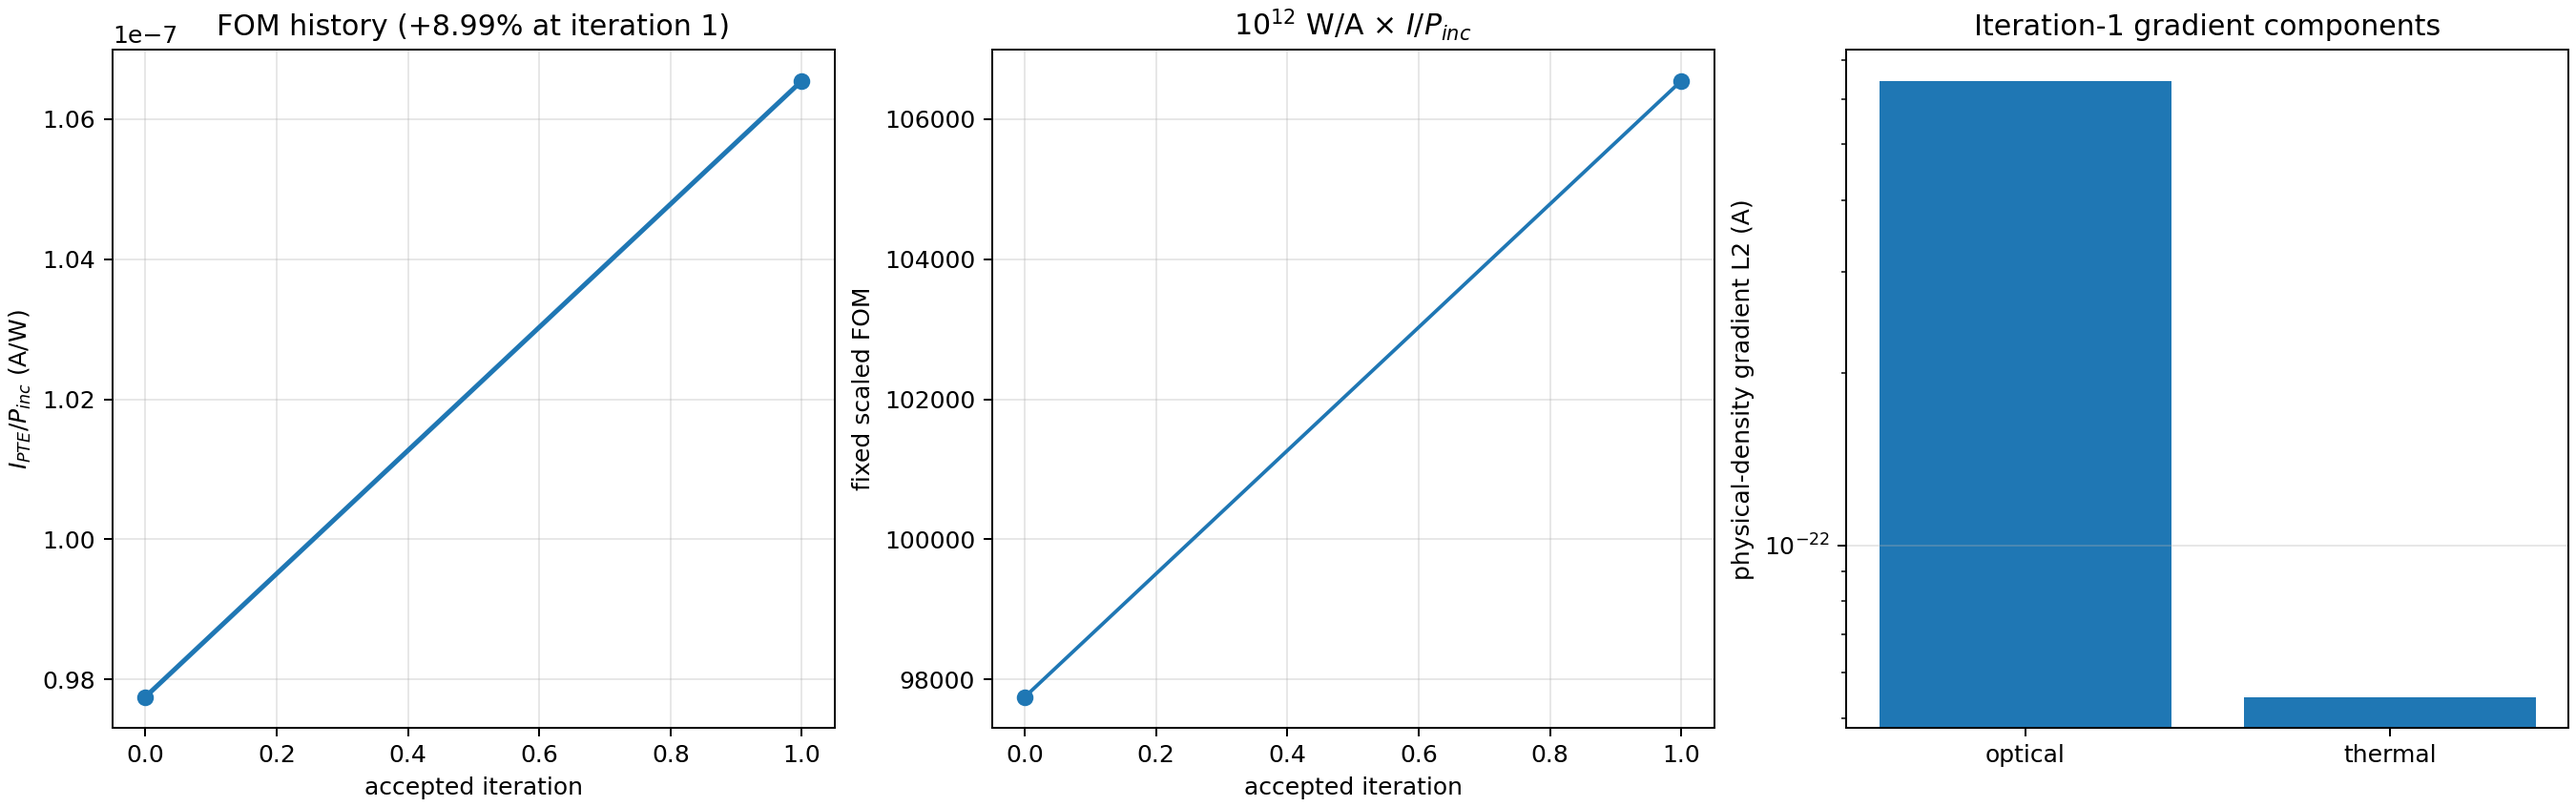
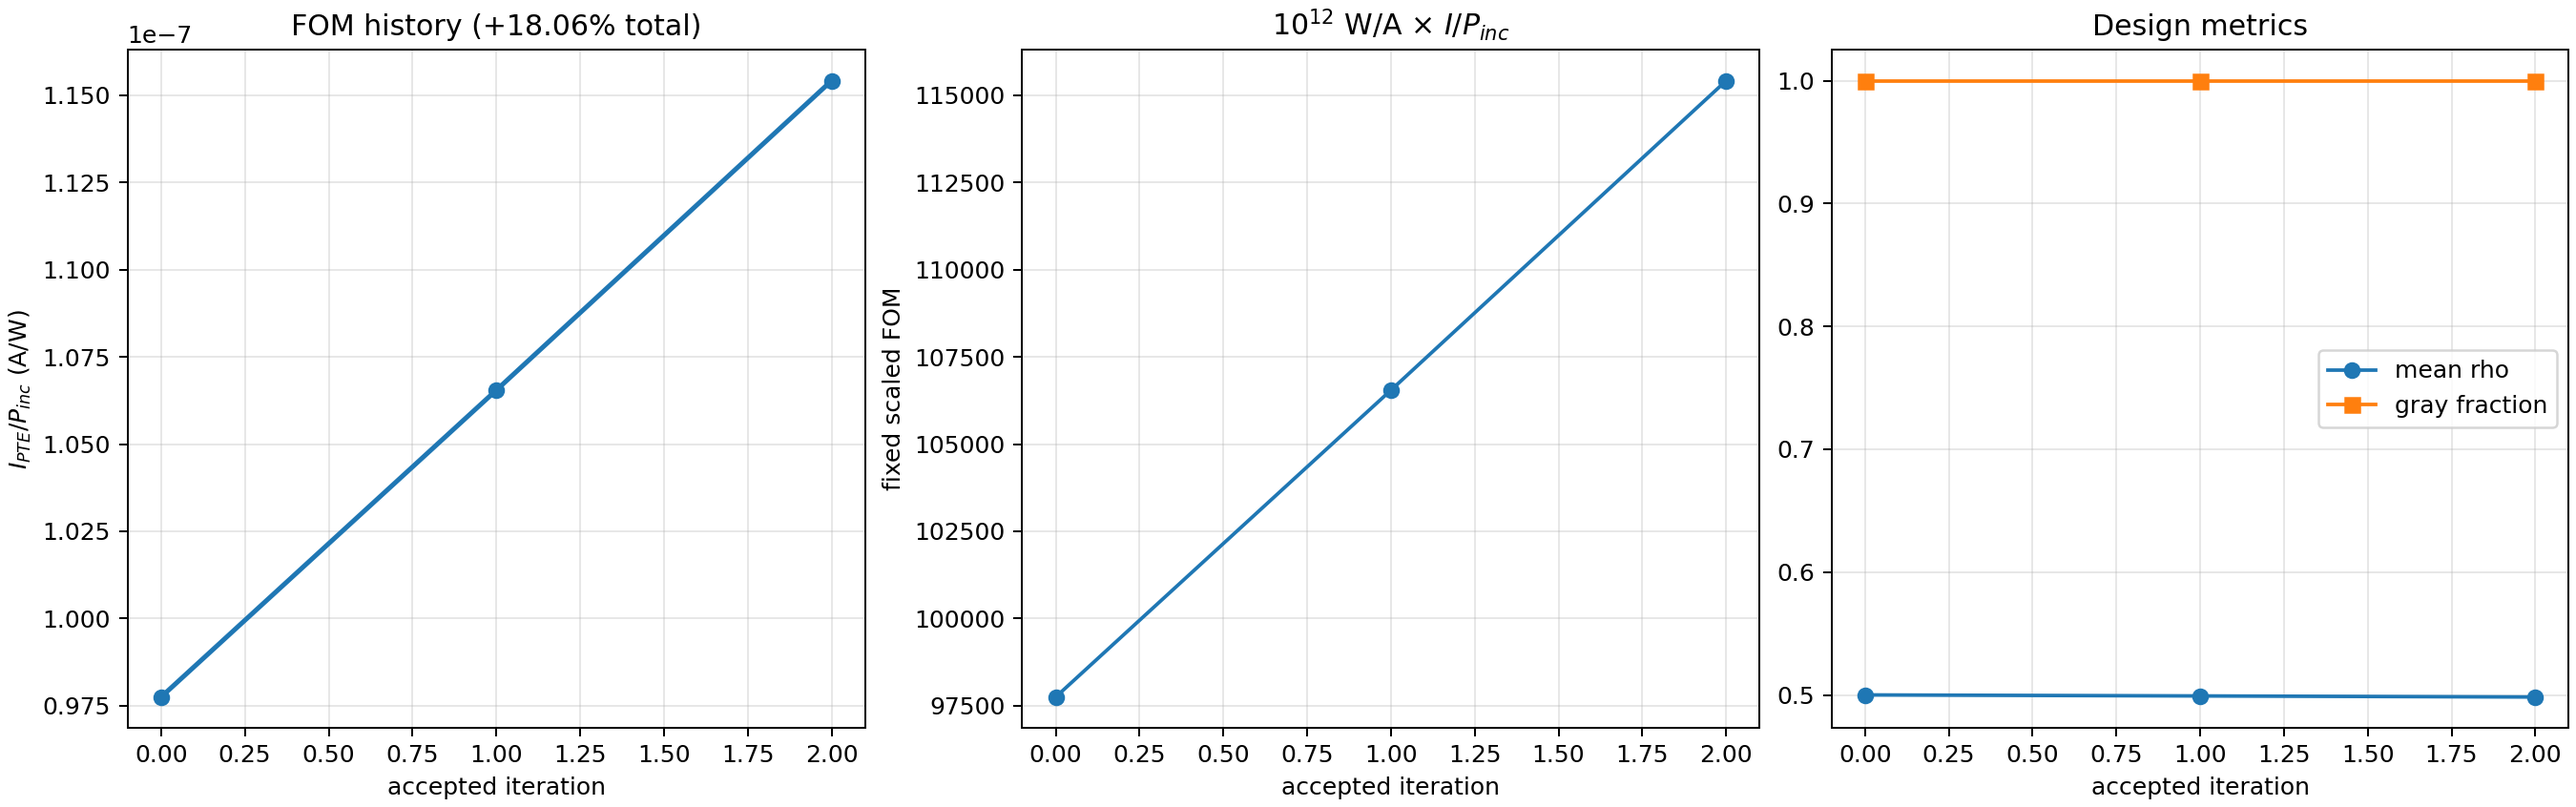
Continue nominal PTE inverse design pilot

diff --git a/photothermal_pte/optimization_runs/run_002_gaussian10_w8p5_current_max/append_nominal_mma_iteration.py b/photothermal_pte/optimization_runs/run_002_gaussian10_w8p5_current_max/append_nominal_mma_iteration.py
@@ -1,0 +1,255 @@
+#!/usr/bin/env python3
+"""Append one improving nominal MMA candidate to the committed run history."""
+
+from __future__ import annotations
+
+import argparse
+import csv
+from datetime import datetime, timezone
+import hashlib
+import json
+from pathlib import Path
+
+import matplotlib
+
+matplotlib.use("Agg")
+import matplotlib.pyplot as plt  # noqa: E402
+import numpy as np  # noqa: E402
+
+
+STATUS = "RUNNING_NOMINAL_MMA_PILOT"
+
+
+def sha256(path: Path) -> str:
+    digest = hashlib.sha256()
+    with path.open("rb") as handle:
+        for block in iter(lambda: handle.read(1024 * 1024), b""):
+            digest.update(block)
+    return digest.hexdigest()
+
+
+def artifact(path: Path) -> dict[str, object]:
+    path = path.expanduser().resolve()
+    return {"path": str(path), "size_bytes": path.stat().st_size, "sha256": sha256(path)}
+
+
+def main() -> int:
+    parser = argparse.ArgumentParser()
+    parser.add_argument("--iteration", type=int, required=True)
+    parser.add_argument("--proposal-result", type=Path, required=True)
+    parser.add_argument("--proposal-raw", type=Path, required=True)
+    parser.add_argument("--candidate-result", type=Path, required=True)
+    parser.add_argument("--candidate-raw", type=Path, required=True)
+    parser.add_argument("--run-directory", type=Path, required=True)
+    args = parser.parse_args()
+    run = args.run_directory.expanduser().resolve()
+    results = run / "results"
+    plots = run / "plots"
+    checkpoints = run / "checkpoints"
+    summary_path = results / "nominal_mma_pilot_summary.json"
+    history_csv = results / "nominal_mma_iteration_history.csv"
+    report_path = results / "NOMINAL_MMA_PILOT_REPORT.md"
+    manifest_path = run / "manifests" / "RAW_ARTIFACT_MANIFEST.json"
+    status_path = run / "STATUS.json"
+    previous = json.loads(summary_path.read_text())
+    if args.iteration != int(previous["accepted_iterations"]) + 1:
+        raise RuntimeError("iteration is not the next append-only index")
+    proposal_result_path = args.proposal_result.expanduser().resolve()
+    proposal_raw_path = args.proposal_raw.expanduser().resolve()
+    candidate_result_path = args.candidate_result.expanduser().resolve()
+    candidate_raw_path = args.candidate_raw.expanduser().resolve()
+    proposal = json.loads(proposal_result_path.read_text())
+    candidate = json.loads(candidate_result_path.read_text())
+    if not proposal.get("passed") or not candidate.get("passed"):
+        raise RuntimeError("proposal or candidate did not pass")
+    if int(proposal["optimizer_iteration_proposed"]) != args.iteration:
+        raise RuntimeError("proposal iteration does not match requested append index")
+    if sha256(proposal_raw_path) != proposal["raw_artifact"]["sha256"]:
+        raise RuntimeError("proposal raw SHA mismatch")
+    if sha256(candidate_raw_path) != candidate["raw_artifact"]["sha256"]:
+        raise RuntimeError("candidate raw SHA mismatch")
+    proposal_data = np.load(proposal_raw_path)
+    data = np.load(candidate_raw_path)
+    if not np.array_equal(np.asarray(proposal_data["latent"], float), np.asarray(data["latent"], float)):
+        raise RuntimeError("evaluated latent design differs from the MMA proposal")
+    if not np.array_equal(np.asarray(proposal_data["rho"], float), np.asarray(data["rho"], float)):
+        raise RuntimeError("evaluated physical density differs from the MMA proposal")
+    incident = float(candidate["incident_power_W"])
+    scale = float(proposal["fixed_nondimensionalization"]["scale_W_per_A"])
+    rows = list(previous["history"])
+    prior_objective = float(rows[-1]["objective_A"])
+    baseline_objective = float(rows[0]["objective_A"])
+    objective = float(candidate["objective_A"])
+    improvement_prior = (objective - prior_objective) / abs(prior_objective)
+    improvement_total = (objective - baseline_objective) / abs(baseline_objective)
+    if improvement_prior <= 0.0:
+        raise RuntimeError("candidate did not improve the previous accepted objective")
+    latent = np.asarray(data["latent"], float)
+    rho = np.asarray(data["rho"], float)
+    row = {
+        "iteration": args.iteration,
+        "accepted": True,
+        "beta": candidate["beta"],
+        "objective_A": objective,
+        "objective_A_per_incident_W": objective / incident,
+        "scaled_FOM": scale * objective / incident,
+        "relative_improvement_from_iteration0": improvement_total,
+        "P_Q_W": candidate["base_forward"]["P_Q_W"],
+        "P_six_W": candidate["base_forward"]["P_six_W"],
+        "optical_closure": candidate["gates"]["optical_closure"],
+        "thermal_residual": candidate["gates"]["thermal_residual"],
+        "thermal_energy_balance": candidate["gates"]["thermal_energy_balance"],
+        "latent_min": float(np.min(latent)),
+        "latent_max": float(np.max(latent)),
+        "physical_density_min": float(np.min(rho)),
+        "physical_density_max": float(np.max(rho)),
+        "physical_density_mean": float(np.mean(rho)),
+        "gray_fraction_0p05_0p95": float(np.mean((rho > 0.05) & (rho < 0.95))),
+        "gradient_latent_L2_A": candidate["gradient_norms_A"]["latent"],
+        "gradient_physical_L2_A": candidate["gradient_norms_A"]["physical"],
+        "gradient_optical_physical_L2_A": candidate["gradient_norms_A"]["optical_physical"],
+        "gradient_thermal_physical_L2_A": candidate["gradient_norms_A"]["thermal_physical"],
+        "max_abs_latent_step": proposal["latent_max_abs_change"],
+    }
+    rows.append(row)
+    with history_csv.open("w", newline="") as handle:
+        writer = csv.DictWriter(handle, fieldnames=list(rows[0]), lineterminator="\n")
+        writer.writeheader()
+        writer.writerows(rows)
+    checkpoint_path = checkpoints / f"iteration_{args.iteration:03d}_accepted_state.npz"
+    np.savez_compressed(
+        checkpoint_path,
+        latent=np.asarray(latent, np.float32),
+        beta=np.asarray(candidate["beta"]),
+        objective_A=np.asarray(objective),
+        incident_power_W=np.asarray(incident),
+        fixed_objective_scale_W_per_A=np.asarray(scale),
+        iteration=np.asarray(args.iteration),
+    )
+
+    fig, axes = plt.subplots(1, 3, figsize=(15, 4.7), constrained_layout=True)
+    x = [int(value["iteration"]) for value in rows]
+    axes[0].plot(x, [float(value["objective_A_per_incident_W"]) for value in rows], "o-", linewidth=2)
+    axes[0].set_xlabel("accepted iteration")
+    axes[0].set_ylabel(r"$I_{PTE}/P_{inc}$ (A/W)")
+    axes[0].set_title(f"FOM history (+{100.0*improvement_total:.2f}% total)")
+    axes[0].grid(alpha=0.3)
+    axes[1].plot(x, [float(value["scaled_FOM"]) for value in rows], "o-")
+    axes[1].set_xlabel("accepted iteration")
+    axes[1].set_ylabel("fixed scaled FOM")
+    axes[1].set_title(r"$10^{12}$ W/A × $I/P_{inc}$")
+    axes[1].grid(alpha=0.3)
+    axes[2].plot(x, [float(value["physical_density_mean"]) for value in rows], "o-", label="mean rho")
+    axes[2].plot(x, [float(value["gray_fraction_0p05_0p95"]) for value in rows], "s-", label="gray fraction")
+    axes[2].set_xlabel("accepted iteration")
+    axes[2].set_title("Design metrics")
+    axes[2].legend()
+    axes[2].grid(alpha=0.3)
+    fig.savefig(plots / "iteration_vs_fom.png", dpi=180)
+    plt.close(fig)
+
+    fig, axes = plt.subplots(2, 4, figsize=(17, 8.5), constrained_layout=True)
+    fields = (
+        (data["latent"], f"iteration {args.iteration} latent", "viridis"),
+        (data["filtered"], f"iteration {args.iteration} filtered", "viridis"),
+        (data["rho"], f"iteration {args.iteration} physical density", "viridis"),
+        (np.asarray(data["rho"], float) - np.asarray(proposal_data["rho_previous"], float), "physical-density step", "coolwarm"),
+        (data["gradient_optical_A"], "optical gradient", "coolwarm"),
+        (data["gradient_thermal_A"], "thermal gradient", "coolwarm"),
+        (data["gradient_physical_A"], "physical gradient", "coolwarm"),
+        (data["gradient_latent_A"], "latent gradient", "coolwarm"),
+    )
+    for ax, (value, title, cmap) in zip(axes.ravel(), fields):
+        image = ax.imshow(np.asarray(value, float).T, origin="lower", cmap=cmap, aspect="equal")
+        ax.set_title(title)
+        ax.set_xlabel("node x")
+        ax.set_ylabel("node y")
+        fig.colorbar(image, ax=ax, fraction=0.046)
+    design_plot = plots / f"iteration_{args.iteration:03d}_design_and_gradients.png"
+    fig.savefig(design_plot, dpi=180)
+    plt.close(fig)
+
+    fig, axes = plt.subplots(1, 3, figsize=(15, 4.8), constrained_layout=True)
+    axes[0].bar(["move / 0.02", "mean-rho delta / 0.01", "gray-fraction delta"], [
+        float(proposal["latent_max_abs_change"]) / 0.02,
+        abs(float(row["physical_density_mean"]) - float(rows[-2]["physical_density_mean"])) / 0.01,
+        abs(float(row["gray_fraction_0p05_0p95"]) - float(rows[-2]["gray_fraction_0p05_0p95"])),
+    ])
+    axes[0].axhline(1.0, color="black", linestyle="--")
+    axes[0].set_title("Design diagnostics")
+    axes[1].bar(["closure", "residual", "energy"], [candidate["gates"]["optical_closure"] / 0.005, candidate["gates"]["thermal_residual"] / 1.0e-8, candidate["gates"]["thermal_energy_balance"] / 0.01])
+    axes[1].axhline(1.0, color="black", linestyle="--")
+    axes[1].set_yscale("log")
+    axes[1].set_ylabel("value / gate")
+    axes[1].set_title("Physics gate margins")
+    axes[2].bar(["P_Q", "P_six"], [candidate["base_forward"]["P_Q_W"], candidate["base_forward"]["P_six_W"]])
+    axes[2].set_ylabel("power (W)")
+    axes[2].set_title("Optical closure")
+    constraint_plot = plots / f"iteration_{args.iteration:03d}_constraints_and_physics.png"
+    fig.savefig(constraint_plot, dpi=180)
+    plt.close(fig)
+
+    generated = datetime.now(timezone.utc).isoformat()
+    raw_entry = {
+        "proposal_result": artifact(proposal_result_path),
+        "proposal_NPZ": artifact(proposal_raw_path),
+        "evaluation_result": artifact(candidate_result_path),
+        "evaluation_NPZ": artifact(candidate_raw_path),
+    }
+    raw_artifacts = dict(previous["raw_artifacts"])
+    raw_artifacts[f"iteration_{args.iteration:03d}"] = raw_entry
+    previous.update({
+        "status": STATUS,
+        "generated_at_utc": generated,
+        "optimization_started": True,
+        "accepted_iterations": args.iteration,
+        "current_beta": candidate["beta"],
+        "current_objective_A": objective,
+        "last_iteration_relative_improvement": improvement_prior,
+        "relative_improvement": improvement_total,
+        "history": rows,
+        "checkpoint": artifact(checkpoint_path),
+        "raw_artifacts": raw_artifacts,
+    })
+    summary_path.write_text(json.dumps(previous, indent=2) + "\n")
+    table = "\n".join(
+        f"| {int(value['iteration'])} | {float(value['objective_A']):.12e} | {float(value['objective_A_per_incident_W']):.12e} | {100.0*float(value['relative_improvement_from_iteration0']):.6f}% |"
+        for value in rows
+    )
+    report_path.write_text(
+        "# Run 002 nominal MMA pilot\n\n"
+        f"Status: `{STATUS}`\n\n"
+        "| accepted iteration | objective (A) | objective / incident power (A/W) | improvement from iteration 0 |\n"
+        "|---:|---:|---:|---:|\n"
+        f"{table}\n\n"
+        f"Iteration {args.iteration} improves the previous accepted objective by `{100.0*improvement_prior:.6f}%` "
+        f"and the baseline by `{100.0*improvement_total:.6f}%`. The fixed objective scale remains "
+        f"`{scale:.3e} W/A`; it is not changed between iterations.\n\n"
+        "This remains a continuous beta=2 grown/grown +I pilot using the uniform-45° weighting surrogate. "
+        "Each accepted design is generated by a restartable one-step NLopt LD_MMA proposal; internal MMA "
+        "asymptote history is not persisted across server-safe checkpoints. Exact binary DRC, opposite sign, "
+        "named interface robustness, and full electrodes remain pending.\n"
+    )
+    manifest = json.loads(manifest_path.read_text())
+    manifest["nominal_mma_pilot"].update({
+        "status": STATUS,
+        f"iteration_{args.iteration:03d}": raw_entry,
+        "checkpoint": previous["checkpoint"],
+    })
+    manifest["current_promoted_status"] = STATUS
+    manifest["current_promoted_at_utc"] = generated
+    manifest_path.write_text(json.dumps(manifest, indent=2) + "\n")
+    status = json.loads(status_path.read_text())
+    status.update({
+        "status": STATUS,
+        "last_updated_utc": generated,
+        "optimization_started": True,
+        "message": f"Nominal beta=2 MMA iteration {args.iteration} accepted; last improvement={100.0*improvement_prior:.3f}%, total={100.0*improvement_total:.3f}%. Exact binary DRC and robust interface scenarios remain.",
+    })
+    status_path.write_text(json.dumps(status, indent=2) + "\n")
+    print(json.dumps({"status": STATUS, "iteration": args.iteration, "objective_A": objective, "improvement_previous": improvement_prior, "improvement_total": improvement_total, "checkpoint": previous["checkpoint"]}, indent=2))
+    return 0
+
+
+if __name__ == "__main__":
+    raise SystemExit(main())

diff --git a/photothermal_pte/optimization_runs/run_002_gaussian10_w8p5_current_max/propose_nominal_mma_step.py b/photothermal_pte/optimization_runs/run_002_gaussian10_w8p5_current_max/propose_nominal_mma_step.py
@@ -34,12 +34,15 @@ def main() -> int:
     parser.add_argument("--preparation-raw", type=Path, required=True)
     parser.add_argument("--preparation-raw-sha256", required=True)
     parser.add_argument("--output-dir", type=Path, required=True)
+    parser.add_argument("--iteration", type=int, default=1)
     parser.add_argument("--initial-step", type=float, default=0.02)
     parser.add_argument("--fixed-objective-scale-W-per-A", type=float, default=1.0e8)
     args = parser.parse_args()
     output = args.output_dir.expanduser().resolve()
     if output.exists() and any(output.iterdir()):
         raise RuntimeError(f"refusing non-empty output directory: {output}")
+    if args.iteration < 1:
+        raise ValueError("iteration must be positive")
     output.mkdir(parents=True, exist_ok=True)
     prep_path = args.preparation_result.expanduser().resolve()
     prep = json.loads(prep_path.read_text())
@@ -84,7 +87,8 @@ def main() -> int:
     rho1 = mapping.physical(candidate, beta)
     if np.min(candidate) < 0.0 or np.max(candidate) > 1.0:
         raise RuntimeError("MMA candidate violates bounds")
-    proposal_path = output / "nominal_mma_iteration_001_proposal.npz"
+    tag = f"{args.iteration:03d}"
+    proposal_path = output / f"nominal_mma_iteration_{tag}_proposal.npz"
     np.savez_compressed(
         proposal_path,
         latent= candidate,
@@ -95,7 +99,7 @@ def main() -> int:
         certified_gradient_latent_A=gradient_A,
     )
     result = {
-        "status": "PROPOSED_NOMINAL_MMA_ITERATION_001",
+        "status": f"PROPOSED_NOMINAL_MMA_ITERATION_{tag}",
         "passed": True,
         "generated_at_utc": datetime.now(timezone.utc).isoformat(),
         "algorithm": "NLopt_LD_MMA",
@@ -131,13 +135,13 @@ def main() -> int:
         "actual_candidate_objective": "not evaluated by this proposal step",
         "inputs": {"preparation_result": artifact(prep_path), "preparation_NPZ": artifact(raw_path)},
         "raw_artifact": artifact(proposal_path),
-        "optimizer_iteration_proposed": 1,
-        "optimizer_iteration_evaluated": 0,
+        "optimizer_iteration_proposed": args.iteration,
+        "optimizer_iteration_evaluated": args.iteration - 1,
         "Maxwell_solves": 0,
         "thermal_solves": 0,
         "gradient_rescaling": False,
     }
-    result_path = output / "nominal_mma_iteration_001_proposal_result.json"
+    result_path = output / f"nominal_mma_iteration_{tag}_proposal_result.json"
     result_path.write_text(json.dumps(result, indent=2) + "\n")
     print(json.dumps(result, indent=2))
     return 0

diff --git a/photothermal_pte/optimization_runs/run_002_gaussian10_w8p5_current_max/run_optimization.py b/photothermal_pte/optimization_runs/run_002_gaussian10_w8p5_current_max/run_optimization.py
@@ -52,8 +52,8 @@ def main() -> int:
         "also passed. The selected-grid Maxwell optical adjoint and five-direction "
         "combined physical-density AD-FD pass after named-source CW normalization "
         "was fixed. Full latent/filter/projection AD-FD also passes. Continuous "
-        "optimization is numerically authorized and nominal beta=2 MMA iteration 1 "
-        "has been accepted with an append-only checkpoint; "
+        "optimization is numerically authorized and nominal beta=2 restartable MMA "
+        "iterations 1 and 2 have been accepted with SHA-pinned append-only checkpoints; "
         "exact-binary DRC fixtures remain required before final fabrication promotion"
     )
     return 0

diff --git a/photothermal_pte/optimization_runs/run_002_gaussian10_w8p5_current_max/results/NOMINAL_MMA_PILOT_REPORT.md b/photothermal_pte/optimization_runs/run_002_gaussian10_w8p5_current_max/results/NOMINAL_MMA_PILOT_REPORT.md
@@ -2,8 +2,12 @@
 
 Status: `RUNNING_NOMINAL_MMA_PILOT`
 
-The first actual GPU-Maxwell/CUDA-thermal MMA candidate is accepted. The signed PTE objective increased from `1.351217541492e-20 A` to `1.472735412129e-20 A`, a `8.993213%` improvement.
+| accepted iteration | objective (A) | objective / incident power (A/W) | improvement from iteration 0 |
+|---:|---:|---:|---:|
+| 0 | 1.351217541492e-20 | 9.775174754357e-08 | 0.000000% |
+| 1 | 1.472735412129e-20 | 1.065427703418e-07 | 8.993213% |
+| 2 | 1.595279824199e-20 | 1.154080566955e-07 | 18.062397% |
 
-The optimizer uses 0≤latent≤1, a finite nonperiodic 500 nm conic filter, beta=2 tanh projection, and a fixed objective nondimensionalization of `1.000e+12 W/A × I/P_incident`. It does not dynamically rescale gradients. No volume or symmetry constraint is imposed in this nominal pilot. Exact binary 500 nm solid/void DRC is still required before fabrication promotion.
+Iteration 2 improves the previous accepted objective by `8.320871%` and the baseline by `18.062397%`. The fixed objective scale remains `1.000e+12 W/A`; it is not changed between iterations.
 
-This is not a final optimized structure or an experimental-current prediction. It is iteration 1 of the grown/grown, +I, uniform-45° weighting-surrogate stage.
+This remains a continuous beta=2 grown/grown +I pilot using the uniform-45° weighting surrogate. Each accepted design is generated by a restartable one-step NLopt LD_MMA proposal; internal MMA asymptote history is not persisted across server-safe checkpoints. Exact binary DRC, opposite sign, named interface robustness, and full electrodes remain pending.

diff --git a/photothermal_pte/optimization_runs/run_002_gaussian10_w8p5_current_max/README.md b/photothermal_pte/optimization_runs/run_002_gaussian10_w8p5_current_max/README.md
@@ -212,3 +212,12 @@ not a per-iteration scale. This is still a continuous grown/grown,
 uniform-45-degree weighting-surrogate pilot. Exact binary DRC, the four named
 interface scenarios, and full-electrode validation remain before final design
 promotion.
+
+Accepted iteration 2 increases the objective again to
+`1.595279824199e-20 A`: `8.3209%` above iteration 1 and `18.0624%` above the
+initial state. The fixed objective scale and beta remain unchanged.
+
+For server-safe restartability, every accepted update is a one-step NLopt
+`LD_MMA` proposal recomputed from the latest certified gradient. NLopt's
+internal asymptote history is not serialized between checkpoints; this pilot
+must therefore not be described as a single uninterrupted stateful MMA run.

diff --git a/photothermal_pte/optimization_runs/run_002_gaussian10_w8p5_current_max/checkpoints/README.md b/photothermal_pte/optimization_runs/run_002_gaussian10_w8p5_current_max/checkpoints/README.md
@@ -1,5 +1,5 @@
 # Checkpoints
 
-Accepted iteration 1 has an external compact optimizer-state NPZ. Binary
+Accepted iterations 1 and 2 have external compact optimizer-state NPZ files. Binary
 checkpoints remain outside Git and are path/size/SHA-256 pinned in the run
 manifest; reports and plots in this directory's sibling folders are committed.
